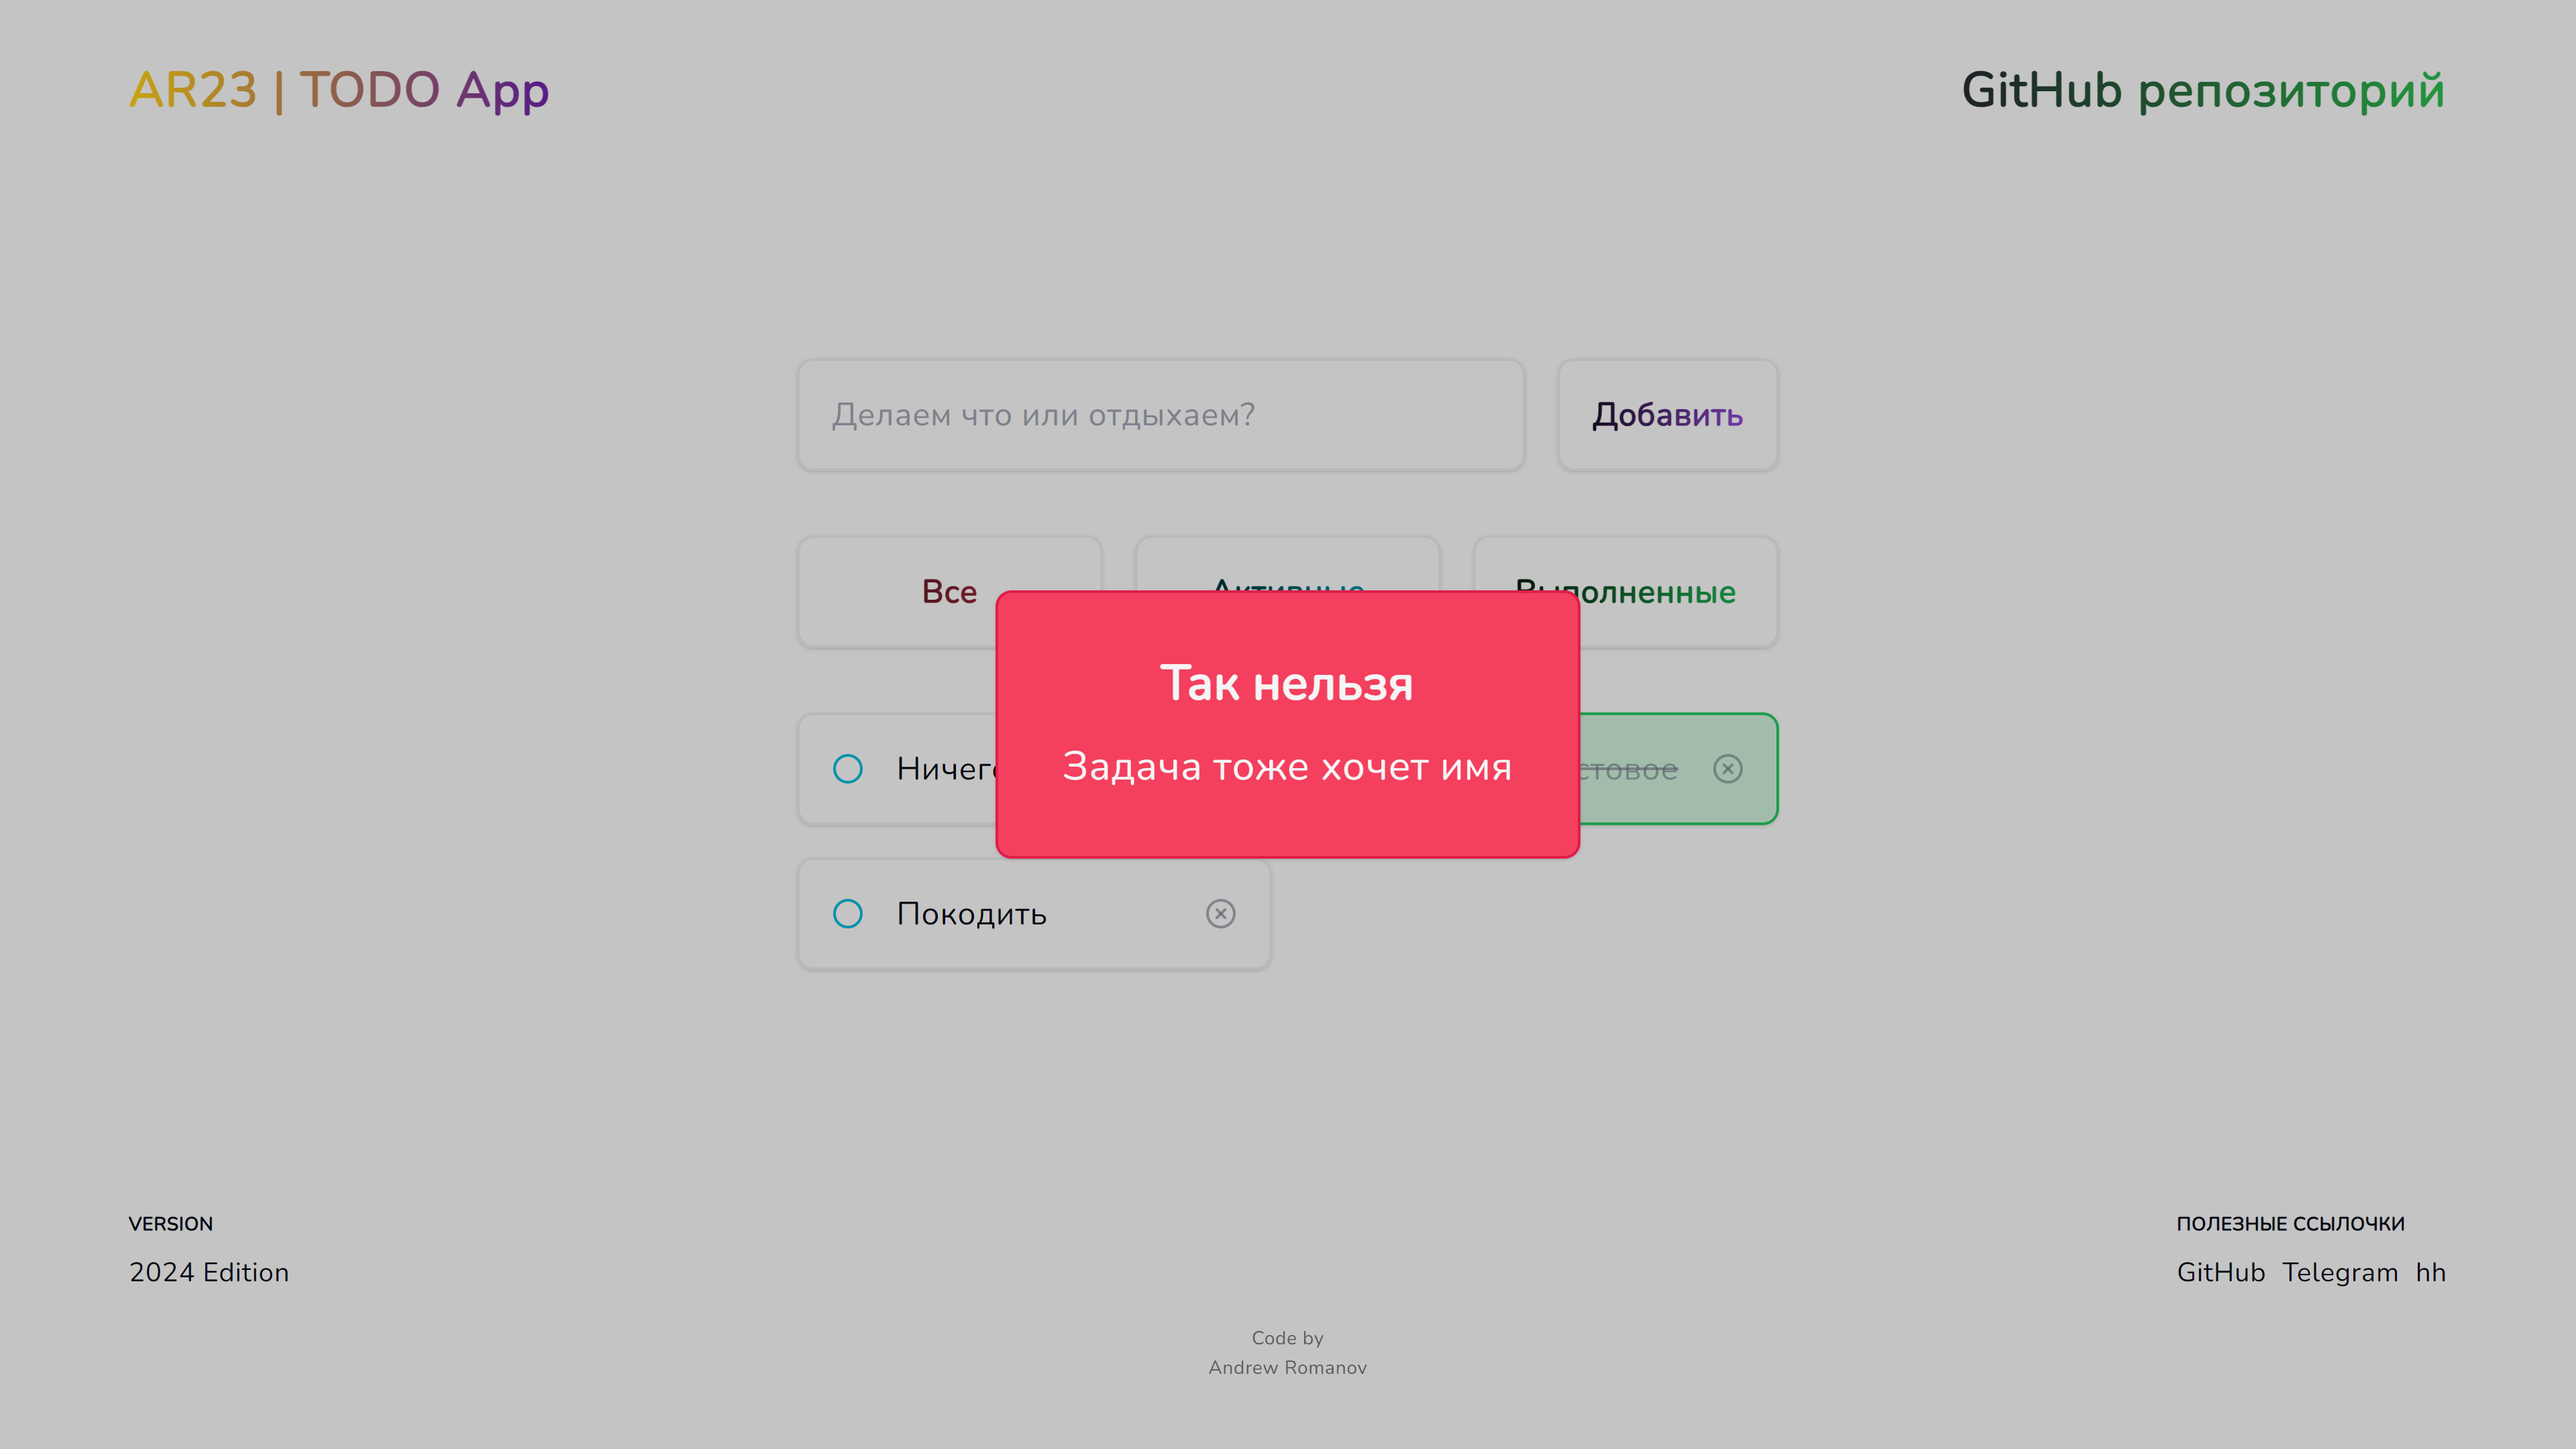
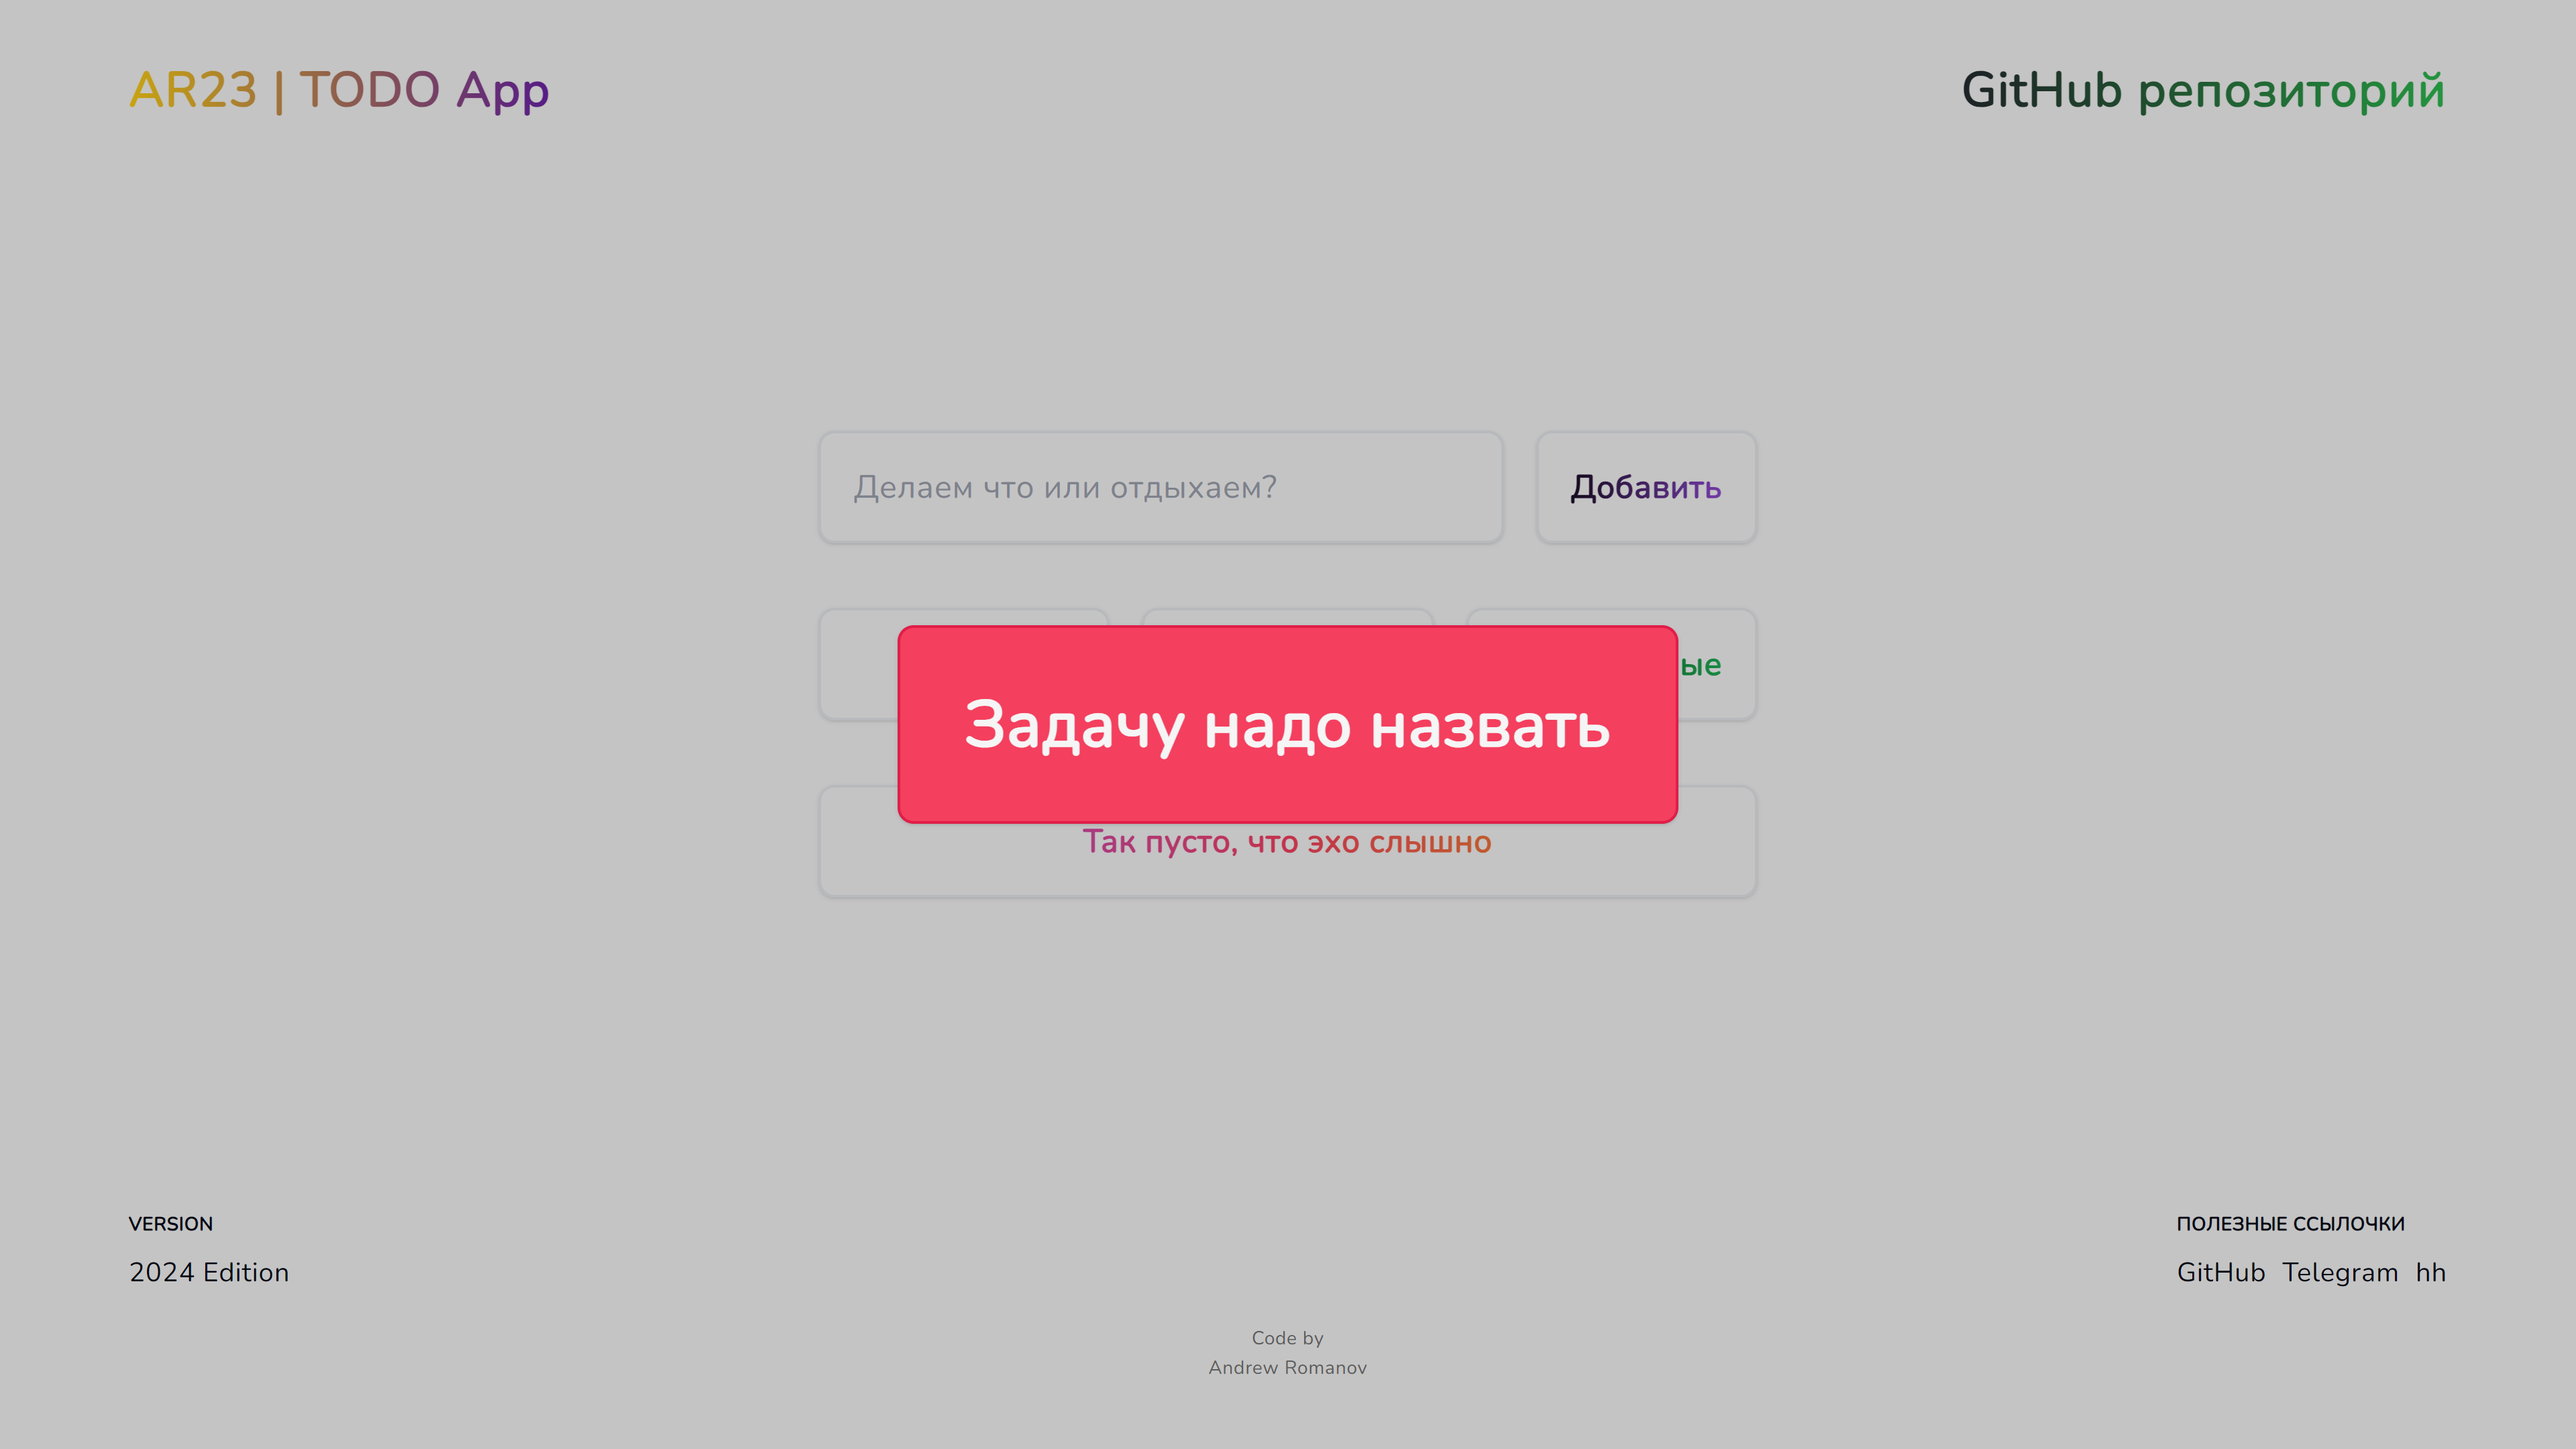
README.md

diff --git a/README.md b/README.md
@@ -12,6 +12,8 @@
 
 <img src='todoAppMobile.png' alt='Mobile' width='1000'>
 
+<img src='todoAppErrorMobile.png' alt='Mobile' width='1000'>
+
 ## How to use
 
 - Clone repository and `cd` into it
